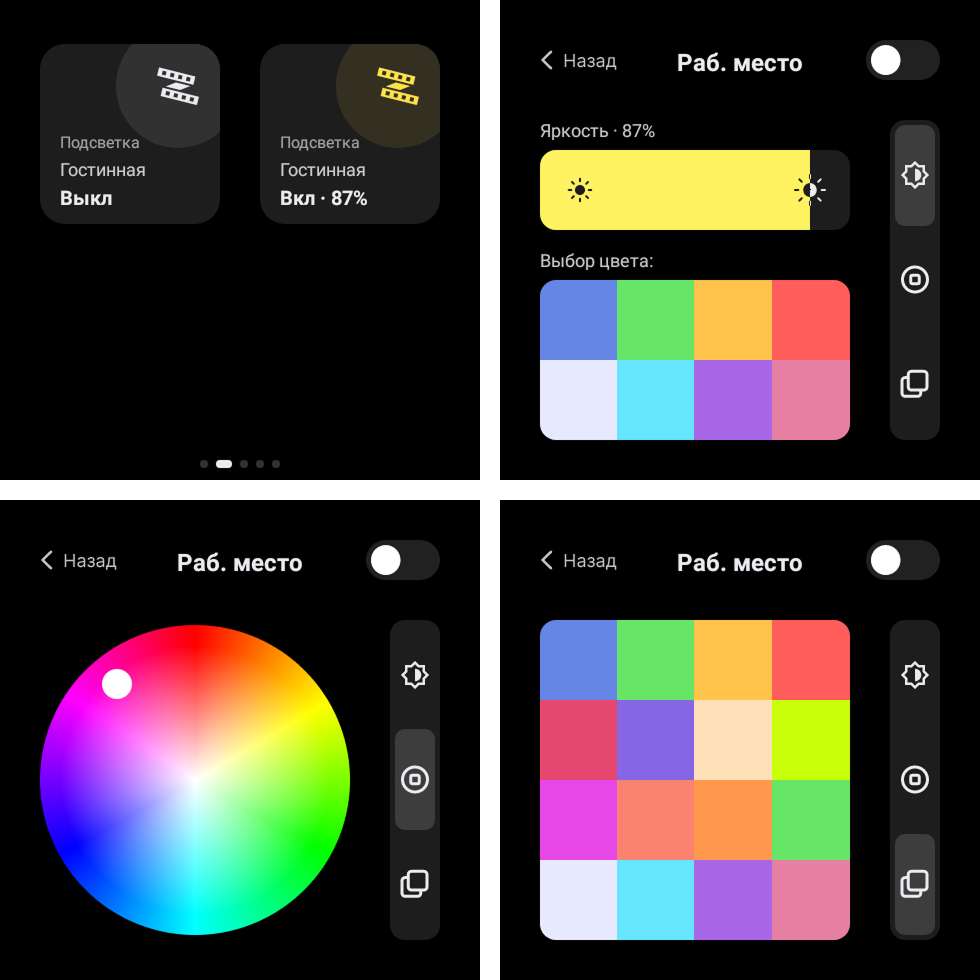
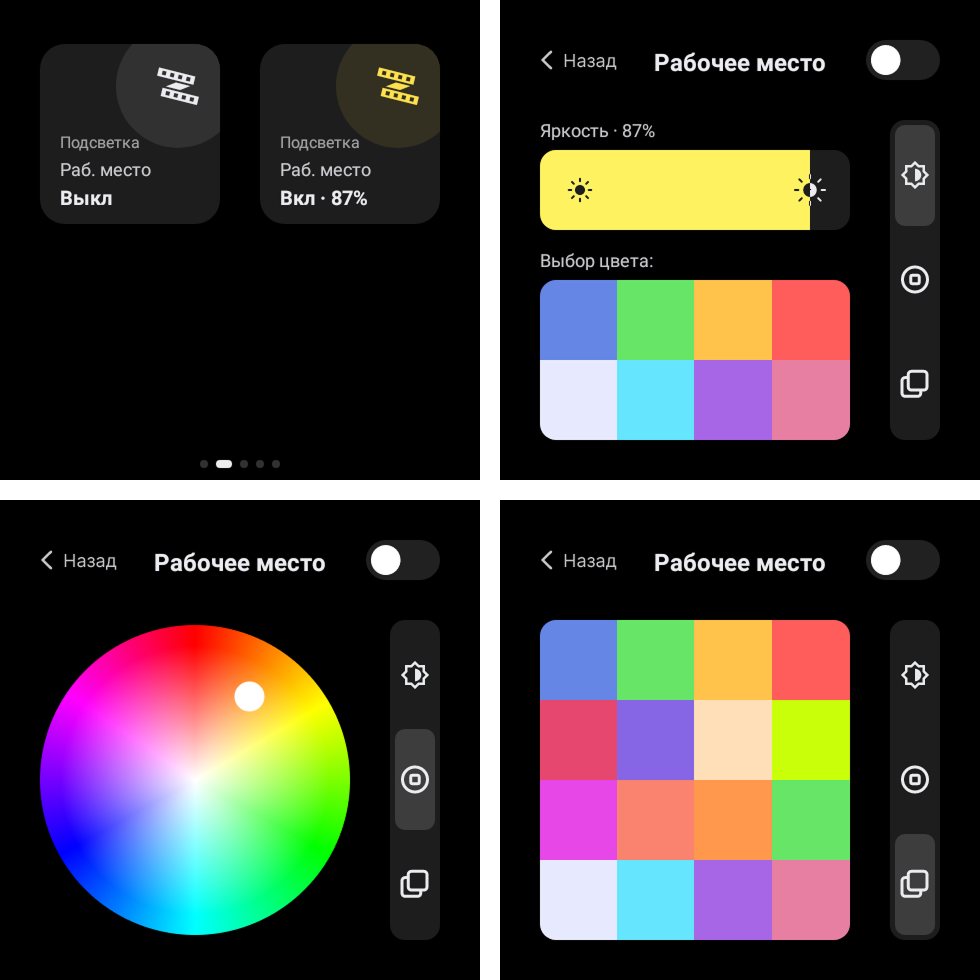
sdfgdfg

diff --git a/Интерфейс/Type_light.rst b/Интерфейс/Type_light.rst
@@ -1,6 +1,8 @@
 Тип light (Свет)
 =================
 
+.. image:: /images/lights/blocks.png
+
 Блок ``light`` предназначен для управления освещением и поддерживает четыре типа устройства. При кратковременном нажатии на блок отправляется команда включения или выключения (``payload_on`` / ``payload_off``). При длительном удержании открывается страница настроек блока (за исключением типа ``light_variant_OnOff``). Общие параметры:
 
 * :ref:`light-param_1` — назначение блока (например, тип устройства: «Люстра», «Подсветка»).
@@ -204,7 +206,7 @@ payload_off
             "param_2": "Двор",
             "setting_name": "Фонари",
             "icon": "\uDB84\uDC20",
-            "variant_type": "Light_variant_OnOff",
+            "variant_type": "light_variant_OnOff",
             "variant": 
             {
             "OnOff_command_topic": "panel/light/1/OnOff_command",
@@ -323,7 +325,7 @@ brightness_scale
             "param_2": "Спальня",
             "setting_name": "Торшеры",
             "icon": "\uDB85\uDFD1",
-            "variant_type": "Light_variant_dimmer",
+            "variant_type": "light_variant_dimmer",
             "variant": 
             {
                 "OnOff_command_topic": "panel/light/2/OnOff_command",
@@ -363,7 +365,7 @@ brightness_scale
         "data": {
             "param_1": "Подсветка",
             "param_2": "Раб. место",
-            "setting_name": "Раб. место",
+            "setting_name": "Рабочее место",
             "icon": "\uDB84\uDC51",
             "variant_type": "Light_variant_color",
             "variant": 
